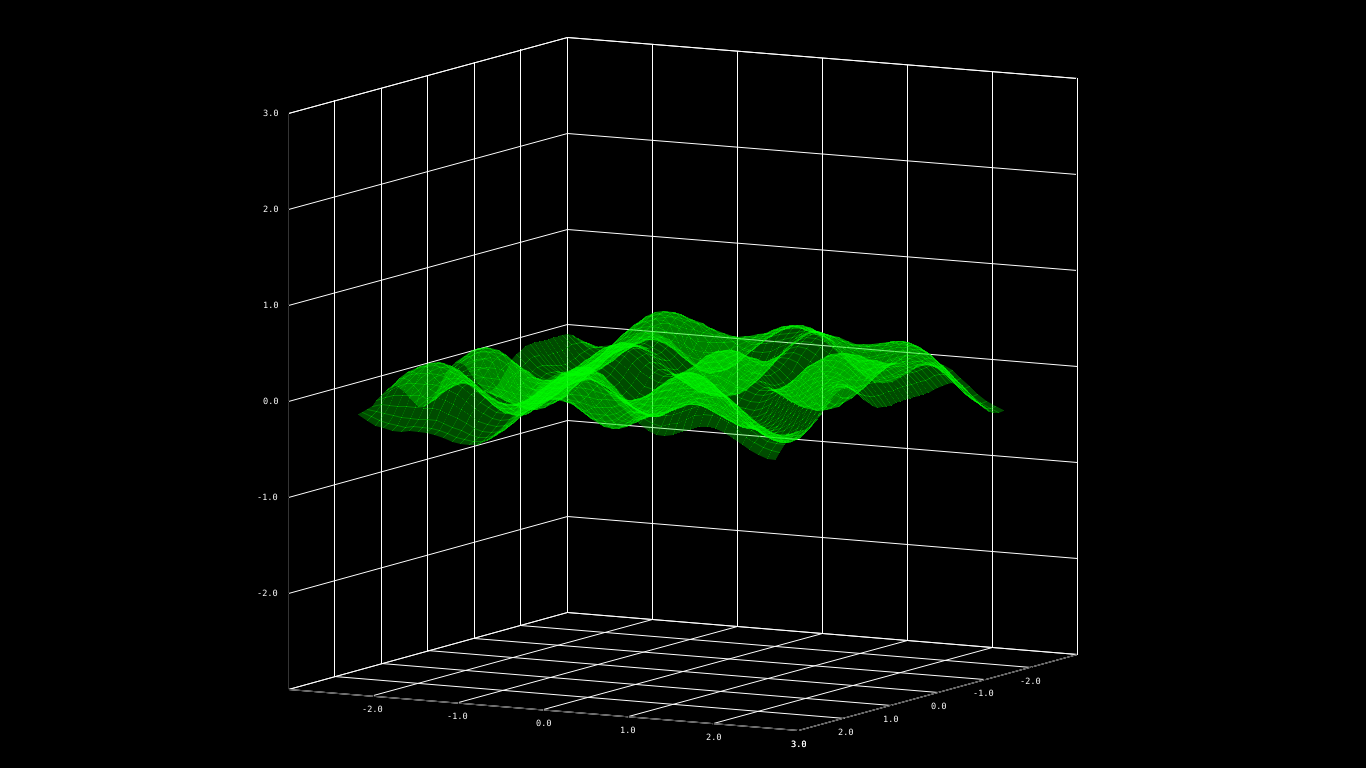
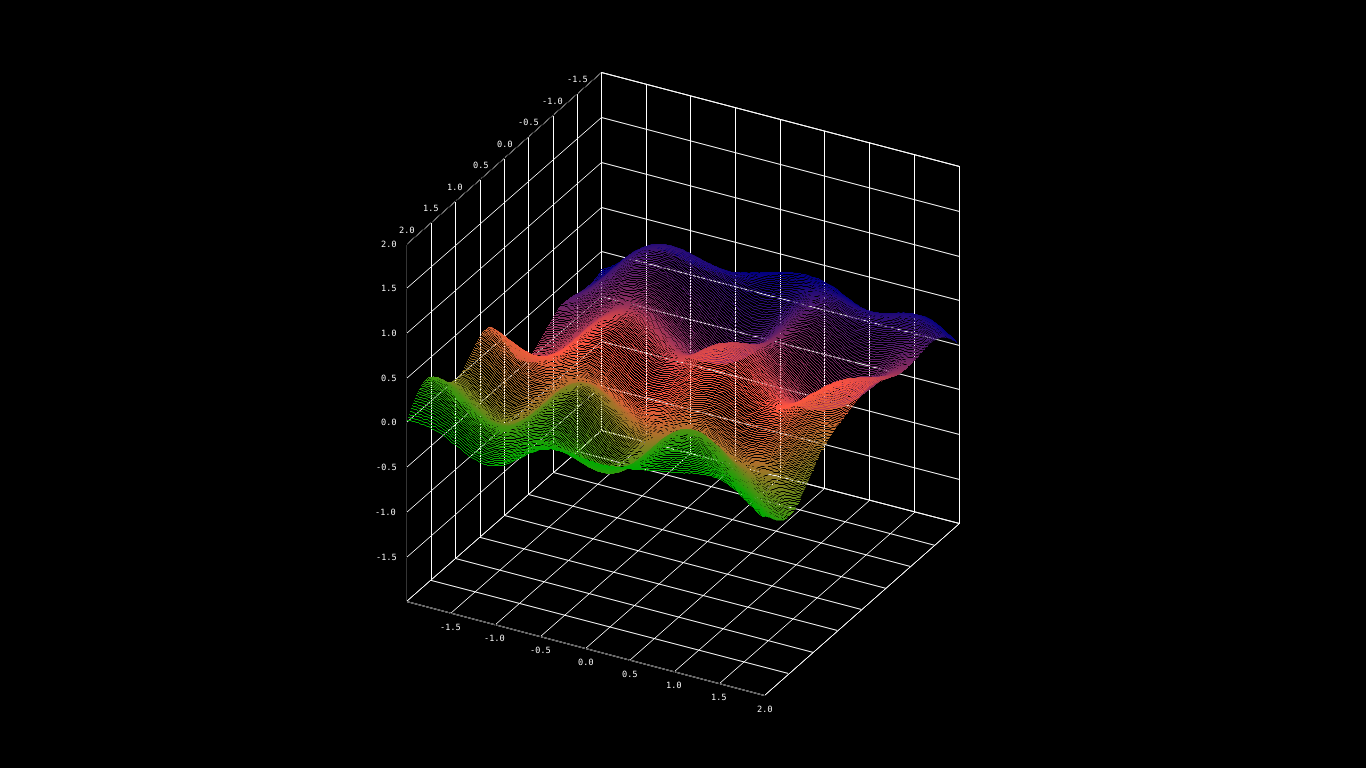
colors and 3d renedering by slices

diff --git a/src/main.rs b/src/main.rs
@@ -5,9 +5,9 @@ use plotters_backend::*;
 
 fn main() -> Result<(), Box<dyn std::error::Error>> {
     let osx = OpenSimplex::new().set_seed(793874);
-    println!("{:.4}", osx.get([0.1, 97.0]));
-    println!("{:.4}", osx.get([0.1, 97.0, 0.0]));
-    println!("{:.4}", osx.get([0.1, 97.0, 0.0, 0.0]));
+//  println!("{:.4}", osx.get([0.1, 97.0]));
+//  println!("{:.4}", osx.get([0.1, 97.0, 0.0]));
+//  println!("{:.4}", osx.get([0.1, 97.0, 0.0, 0.0]));
 
     let root = BitMapBackend::new("out.png", (1366, 768)).into_drawing_area();
 
@@ -17,8 +17,15 @@ fn main() -> Result<(), Box<dyn std::error::Error>> {
 
     let mut chart = ChartBuilder::on(&root)
         .margin(20)
-        .build_cartesian_3d(-3.0..3.0, -3.0..3.0, -3.0..3.0)
+        .build_cartesian_3d(-2.0..2.0, -2.0..2.0, -2.0..2.0)
         .unwrap();
+    
+    chart.with_projection(|mut pb| {
+        pb.pitch = 0.5;
+        pb.yaw = 0.5;
+        pb.scale = 0.7;
+        pb.into_matrix()
+    });
 
     chart.configure_axes()
         .bold_grid_style(ShapeStyle {color: WHITE.to_rgba(), filled: true, stroke_width: 1})
@@ -31,29 +38,37 @@ fn main() -> Result<(), Box<dyn std::error::Error>> {
         })
         .draw().unwrap();
 
-    let mut data = vec![];
-
-    for x in (-25..25).map(|v| v as f64 / 10.0) {
-        let mut row = vec![];
-        for z in (-25..25).map(|v| v as f64 / 10.0) {
-            row.push((x, osx.get([x as f64, z as f64]) as f64, z));
-        }
-        data.push(row);
+    for z in (-100..100).map(|v| v as f64 / 50.0) {
+        let col_delta = ((z/4.0 + 0.5)*256.0) as i16;
+        chart.draw_series(LineSeries::new(
+            (-100..100).map(|x| x as f64 / 50.0).map(|x| (x, osx.get([x as f64, z as f64]), z * 1.0)),
+            &(RGBColor((255-(col_delta-127).abs()*2) as u8, (col_delta*2/3) as u8, (127 - col_delta/2) as u8))
+        )).unwrap();
     }
 
-    chart.draw_series(
-        (0..49)
-            .map(|x| std::iter::repeat(x).zip(0..49))
-            .flatten()
-            .map(|(x,z)| {
-                Polygon::new(vec![
-                    data[x][z],
-                    data[x+1][z],
-                    data[x+1][z+1],
-                    data[x][z+1],
-                ], &GREEN.mix(0.3))
-            })
-    ).unwrap();
+//  let mut data = vec![];
+
+//  for x in (-25..25).map(|v| v as f64 / 10.0) {
+//      let mut row = vec![];
+//      for z in (-25..25).map(|v| v as f64 / 10.0) {
+//          row.push((x, (osx.get([x as f64, z as f64]) - 3.0) as f64, z));
+//      }
+//      data.push(row);
+//  }
+
+//  chart.draw_series(
+//      (0..49)
+//          .map(|x| std::iter::repeat(x).zip(0..49))
+//          .flatten()
+//          .map(|(x,z)| {
+//              Polygon::new(vec![
+//                  data[x][z],
+//                  data[x+1][z],
+//                  data[x+1][z+1],
+//                  data[x][z+1],
+//              ], &GREEN.mix(0.3))
+//          })
+//  ).unwrap();
 
     Ok(())
 }
